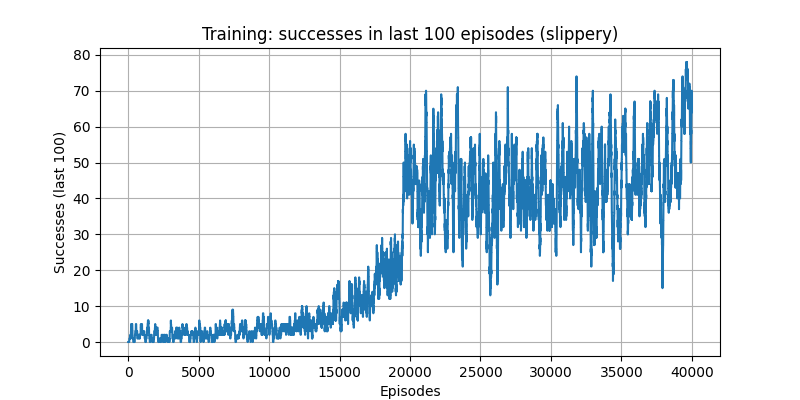
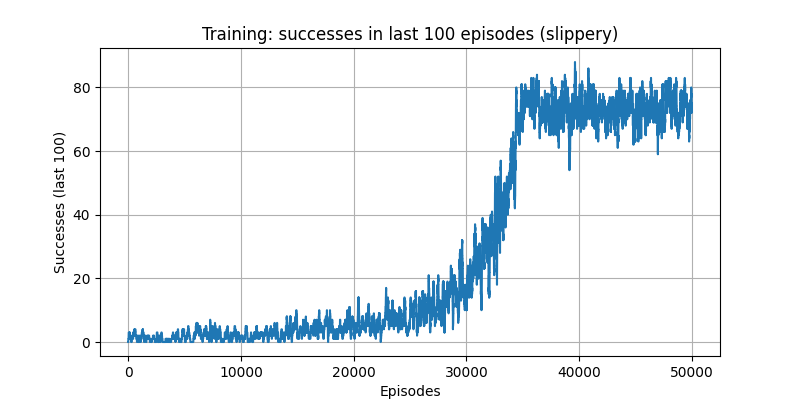
QL

diff --git a/Q-Learning/train.py b/Q-Learning/train.py
@@ -1,35 +1,49 @@
-# train.py
-
 import matplotlib.pyplot as plt
 import gymnasium as gym
 from agent import QLearningAgent
+from config import AGENT_PARAMS
 
 def train(map_name, is_slippery, episodes):
     env = gym.make('FrozenLake-v1', map_name=map_name, is_slippery=is_slippery)
-    agent = QLearningAgent(env)
+    
+    agent = QLearningAgent(
+        env,
+        alpha_start=AGENT_PARAMS["alpha_start"],
+        alpha_end=AGENT_PARAMS["alpha_end"],
+        gamma=AGENT_PARAMS["gamma"],
+        epsilon=AGENT_PARAMS["epsilon"],
+        epsilon_min=AGENT_PARAMS["epsilon_min"],
+        epsilon_decay=AGENT_PARAMS["epsilon_decay"]
+    )
+    
+    #agent = QLearningAgent(env)
     rewards = []
+    epsilons = []
 
     for i in range(episodes):
         state, _ = env.reset()
-        done = False
+        terminated = False
+        truncated = False
         ep_reward = 0
         alpha = agent.alpha_end + (agent.alpha_start - agent.alpha_end) * (1 - i / episodes)
 
-        while not done:
-            action = agent.choose_action(state)
+        while (terminated == False and truncated == False):
+            action = agent.epsilon_greedy_search(state)
             new_state, reward, terminated, truncated, _ = env.step(action)
-            done = terminated or truncated
+            
             agent.update_q(state, action, reward, new_state, alpha)
             state = new_state
+            
             ep_reward += reward
 
         rewards.append(ep_reward)
         agent.decay_epsilon()
+        epsilons.append(agent.epsilon)
 
         if (i + 1) % 5000 == 0:
             print(f"Episode {i+1}/{episodes}, avg last 100: {sum(rewards[-100:])/100:.3f}, epsilon: {agent.epsilon:.3f}")
 
-    # Plot
+    # Plot Rewards
     sum_rewards = [sum(rewards[max(0, t - 100): t + 1]) for t in range(len(rewards))]
     plt.figure(figsize=(8, 4))
     plt.plot(sum_rewards)
@@ -40,7 +54,17 @@ def train(map_name, is_slippery, episodes):
     plot_filename = f"train_{map_name}_{'slippery' if is_slippery else 'deterministic'}.png"
     plt.savefig(plot_filename)
     plt.close()
-    print(f"Training plot saved as '{plot_filename}'")
+
+    # Plot Epsilon Decay
+    plt.figure(figsize=(8, 4))
+    plt.plot(epsilons, color='orange')
+    plt.title("Decay of Epsilon over Training")
+    plt.xlabel("Episodes")
+    plt.ylabel("Epsilon")
+    plt.grid(True)
+    epsilon_plot_filename = f"epsilon_decay_{map_name}_{'slippery' if is_slippery else 'deterministic'}.png"
+    plt.savefig(epsilon_plot_filename)
+    plt.close()
 
     # Save Q-table
     q_file = f"q_{map_name}_{'slippery' if is_slippery else 'deterministic'}.pkl"

diff --git a/Q-Learning/test.py b/Q-Learning/test.py
@@ -1,13 +1,22 @@
-# test.py
-
 import matplotlib.pyplot as plt
 import gymnasium as gym
 import numpy as np
 from agent import QLearningAgent
+from config import AGENT_PARAMS
 
 def test(map_name, is_slippery, test_episodes):
     env = gym.make('FrozenLake-v1', map_name=map_name, is_slippery=is_slippery)
-    agent = QLearningAgent(env)
+    
+    agent = QLearningAgent(
+        env,
+        alpha_start=AGENT_PARAMS["alpha_start"],
+        alpha_end=AGENT_PARAMS["alpha_end"],
+        gamma=AGENT_PARAMS["gamma"],
+        epsilon=AGENT_PARAMS["epsilon"],
+        epsilon_min=AGENT_PARAMS["epsilon_min"],
+        epsilon_decay=AGENT_PARAMS["epsilon_decay"]
+    )
+    
     q_file = f"q_{map_name}_{'slippery' if is_slippery else 'deterministic'}.pkl"
     agent.load(q_file)
 
@@ -15,21 +24,24 @@ def test(map_name, is_slippery, test_episodes):
 
     for i in range(test_episodes):
         state, _ = env.reset()
-        done = False
-        while not done:
+        terminated = False
+        truncated = False
+
+        # Act choosing only the best action
+        while (terminated == False and truncated == False):
             action = np.argmax(agent.q_table[state])
             state, reward, terminated, truncated, _ = env.step(action)
-            done = terminated or truncated
+
         successes[i] = reward
 
     success_rate = successes.mean() * 100
-    print(f"Success rate: {success_rate:.2f}%")
+    print(f"Success rate: {success_rate:.2f}%\n")
 
     # Plot
     sum_test = [sum(successes[max(0, t-100): t+1]) for t in range(test_episodes)]
     plt.figure(figsize=(8,4))
     plt.plot(sum_test)
-    plt.axhline(y=success_rate, linestyle='--', label=f"Average {success_rate:.1f}%")
+    plt.axhline(y=success_rate, linestyle='--', color='orange', label=f"Average {success_rate:.1f}%")
     plt.title(f"Test: successes in last 100 episodes ({'slippery' if is_slippery else 'deterministic'})")
     plt.xlabel("Test Episodes")
     plt.ylabel("Successes (last 100)")
@@ -38,6 +50,5 @@ def test(map_name, is_slippery, test_episodes):
     test_filename = f"test_{map_name}_{'slippery' if is_slippery else 'deterministic'}.png"
     plt.savefig(test_filename)
     plt.close()
-    print(f"Test plot saved as '{test_filename}'")
 
     env.close()

diff --git a/Q-Learning/agent.py b/Q-Learning/agent.py
@@ -1,34 +1,44 @@
-# agent.py
-
 import numpy as np
 import pickle
 
 class QLearningAgent:
-    def __init__(self, env, alpha_start=0.9, alpha_end=0.1, gamma=0.9, epsilon=1.0,
-                 epsilon_min=0.01, epsilon_decay=0.00005, rng_seed=None):
+    def __init__(self, env, alpha_start, alpha_end, gamma, epsilon, epsilon_min, epsilon_decay):
         self.env = env
+        
+        # Initialization of the Q table
         self.n_states = env.observation_space.n
         self.n_actions = env.action_space.n
         self.q_table = np.zeros((self.n_states, self.n_actions))
+
+        # Hyperparameters
         self.alpha_start = alpha_start
         self.alpha_end = alpha_end
         self.gamma = gamma
         self.epsilon = epsilon
         self.epsilon_min = epsilon_min
         self.epsilon_decay = epsilon_decay
-        self.rng = np.random.default_rng(rng_seed)
 
-    def choose_action(self, state):
+        self.rng = np.random.default_rng()
+
+    # Act according to the Epsilon Greedy Search
+    def epsilon_greedy_search(self, state):
         if self.rng.random() < self.epsilon:
-            return self.env.action_space.sample()
-        return np.argmax(self.q_table[state])
+            action = self.env.action_space.sample()
+        else:
+            action = np.argmax(self.q_table[state])
+        return action
 
+    # Updating rule
     def update_q(self, state, action, reward, next_state, alpha):
-        best_next = np.max(self.q_table[next_state])
-        self.q_table[state, action] += alpha * (reward + self.gamma * best_next - self.q_table[state, action])
+        self.q_table[state, action] += alpha * (reward + self.gamma * np.max(self.q_table[next_state]) - self.q_table[state, action])
 
+    # Decrease epsilon
     def decay_epsilon(self):
+        # Linear Decay
         self.epsilon = max(self.epsilon - self.epsilon_decay, self.epsilon_min)
+        # Exponential Decay
+        #self.epsilon = max(self.epsilon * self.epsilon_decay, self.epsilon_min)
+
 
     def save(self, filename):
         with open(filename, 'wb') as f:

diff --git a/Q-Learning/main.py b/Q-Learning/main.py
@@ -1,5 +1,3 @@
-# main.py
-
 from config import ENV_CONFIG, TRAINING_PARAMS, TESTING_PARAMS
 from train import train
 from test import test
@@ -11,16 +9,13 @@ if __name__ == '__main__':
     map_name = ENV_CONFIG["map_name"]
     is_slippery = ENV_CONFIG["is_slippery"]
 
-    # Genera mappa solo se non esiste
+    # Map 4x4 or 8x8
     plot_filename = f"map_{map_name}.png"
     if not os.path.exists(plot_filename):
-        print(f"--- GENERATING MAP for {map_name} ---")
-        env = gym.make('FrozenLake-v1', map_name=map_name, is_slippery=False)  # usa deterministic
+        env = gym.make('FrozenLake-v1', map_name=map_name, is_slippery=False)
         plot_frozenlake_map(env, plot_filename)
         env.close()
-    else:
-        print(f"Map for {map_name} already exists as '{plot_filename}'")
-
+    
     print(f"--- TRAINING on {map_name}, slippery={is_slippery} ---")
     train(map_name=map_name, is_slippery=is_slippery, episodes=TRAINING_PARAMS["episodes"])
 

diff --git a/Q-Learning/config.py b/Q-Learning/config.py
@@ -1,12 +1,20 @@
-# config.py
-
 ENV_CONFIG = {
-    "map_name": "8x8",        # "4x4" o "8x8"
-    "is_slippery": True       # True o False
+    "map_name": "8x8",          # "4x4" or "8x8"
+    "is_slippery": True         # True or False (deterministic)
+}
+
+AGENT_PARAMS = {
+    "alpha_start": 0.9,
+    "alpha_end": 0.1,
+    "gamma": 0.9,
+    "epsilon": 1.0,
+    "epsilon_min": 0.0,
+    "epsilon_decay": 0.00003    # Linear Decay          (0.00004 8x8 False)
+    #"epsilon_decay": 0.99995   # Exponential Decay
 }
 
 TRAINING_PARAMS = {
-    "episodes": 40000
+    "episodes": 50000   # (40000 8x8 False)
 }
 
 TESTING_PARAMS = {

diff --git a/Q-Learning/map_plot.py b/Q-Learning/map_plot.py
@@ -1,11 +1,9 @@
-# map_plot.py
-
 import numpy as np
 import matplotlib.pyplot as plt
 import matplotlib.colors as mcolors
 
 def plot_frozenlake_map(env, filename="frozenlake_map.png"):
-    desc = env.unwrapped.desc.astype('U1')  # decode bytes to unicode strings
+    desc = env.unwrapped.desc.astype('U1')
     nrow, ncol = desc.shape
 
     color_map = {
@@ -38,4 +36,3 @@ def plot_frozenlake_map(env, filename="frozenlake_map.png"):
 
     plt.savefig(filename)
     plt.close()
-    print(f"Map plot saved as '{filename}'")
